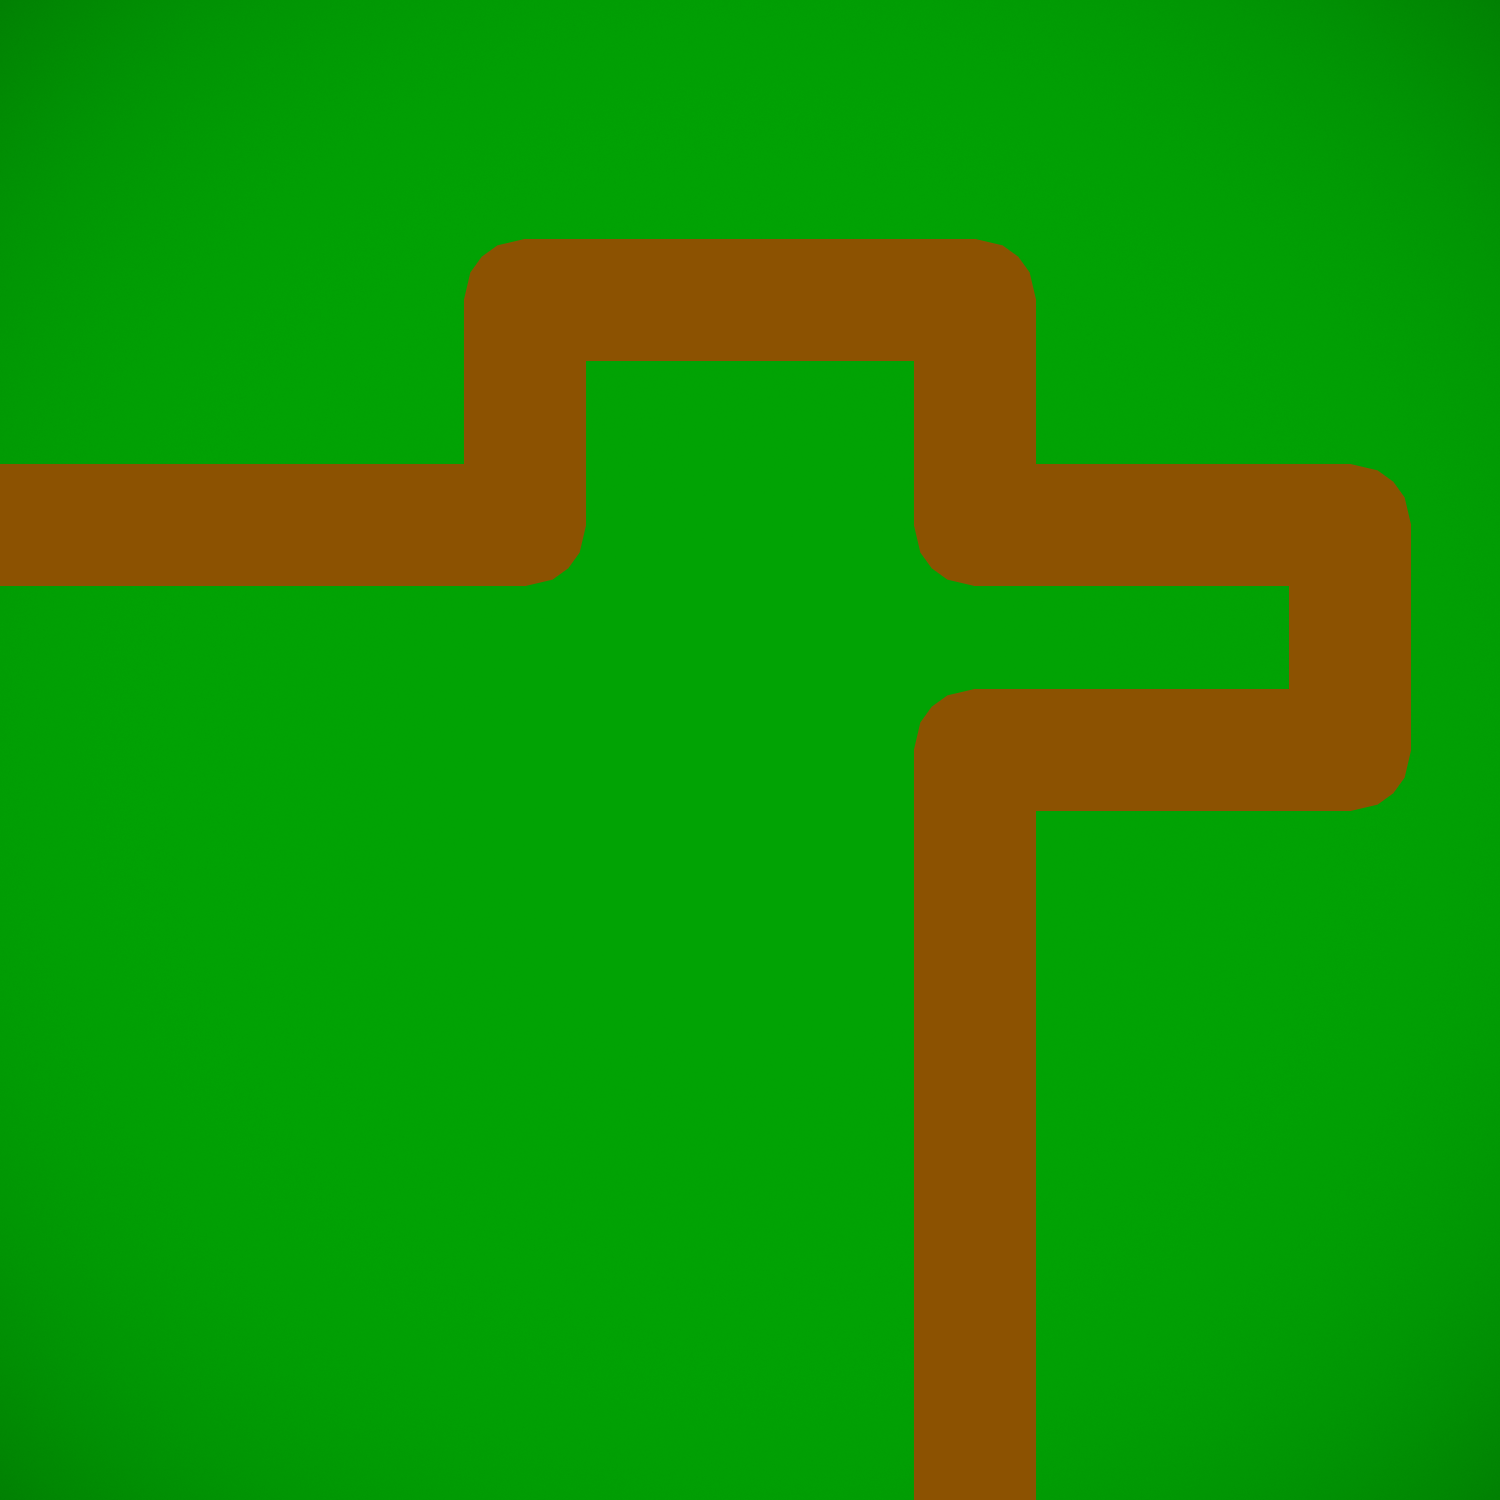
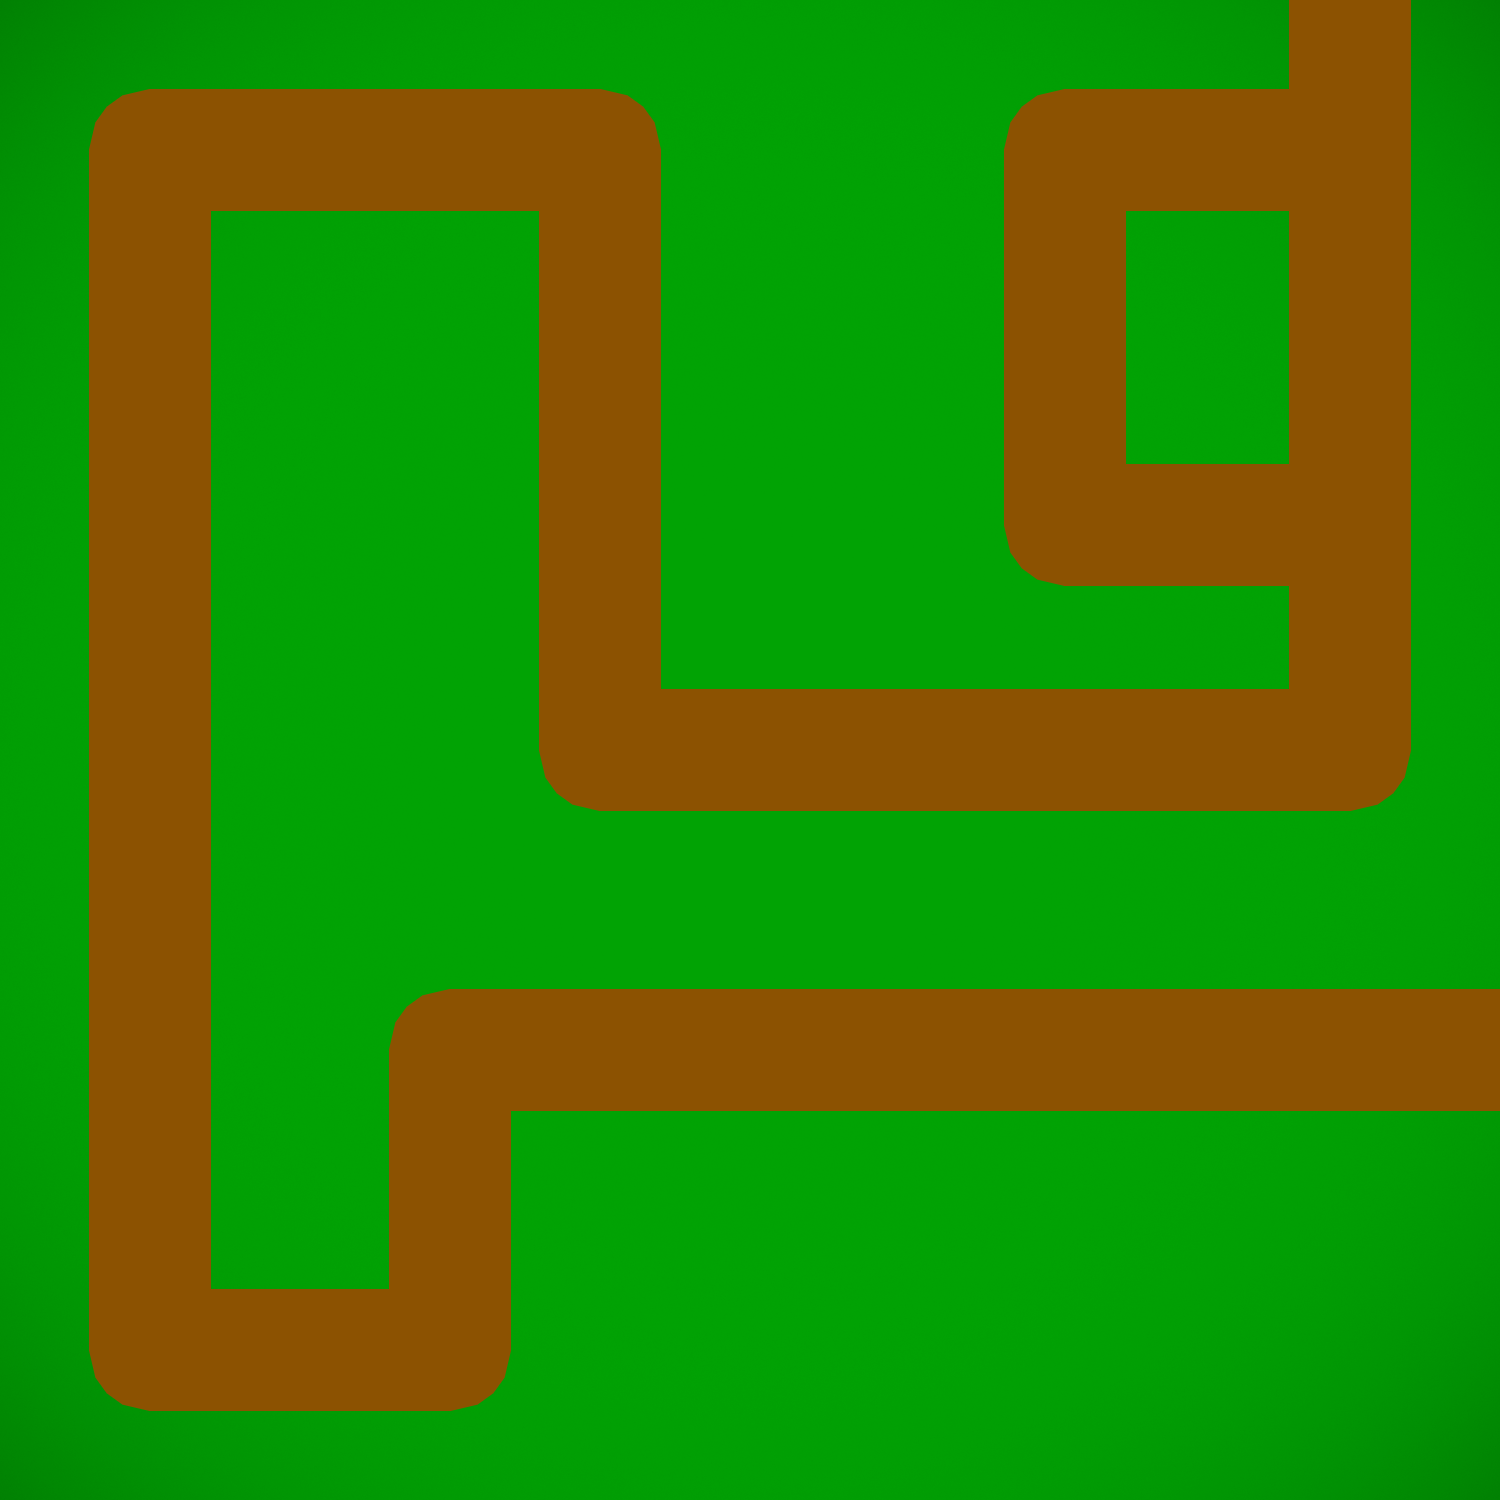
Increment waves 7 through 9 to make room for a new 7th wave

diff --git a/app/utils/create-wave-8.js b/app/utils/create-wave-8.js
@@ -12,15 +12,20 @@ function addBoardToWave(wave) {
   board.set('imageUrl', '/images/path-8.png');
 
   const pathObjects = [
-    PathCoords.create({ x: -5, y: 35 }),
-    PathCoords.create({ x: 35, y: 35 }),
-    PathCoords.create({ x: 35, y: 20 }),
-    PathCoords.create({ x: 65, y: 20 }),
-    PathCoords.create({ x: 65, y: 35 }),
+    PathCoords.create({ x: 90, y: -5 }),
     PathCoords.create({ x: 90, y: 35 }),
+    PathCoords.create({ x: 71, y: 35 }),
+    PathCoords.create({ x: 71, y: 10 }),
+    PathCoords.create({ x: 90, y: 10 }),
+    PathCoords.create({ x: 90, y: 10 }),
     PathCoords.create({ x: 90, y: 50 }),
-    PathCoords.create({ x: 65, y: 50 }),
-    PathCoords.create({ x: 65, y: 105 })
+    PathCoords.create({ x: 40, y: 50 }),
+    PathCoords.create({ x: 40, y: 10 }),
+    PathCoords.create({ x: 10, y: 10 }),
+    PathCoords.create({ x: 10, y: 90 }),
+    PathCoords.create({ x: 30, y: 90 }),
+    PathCoords.create({ x: 30, y: 70 }),
+    PathCoords.create({ x: 105, y: 70 })
   ];
 
   pathObjects.forEach((pathObject) => {
@@ -33,11 +38,11 @@ function addBoardToWave(wave) {
 function addMobsToWave(wave) {
   const mobs = [];
 
-  const mobQuantity = 5;
+  const mobQuantity = 10;
   for (var i = 0; i < mobQuantity; i++) {
     const newMob = Mob.create({
       id: generateIdForRecord(),
-      frequency: 1500,
+      frequency: 900,
       health: 300,
       maxHealth: 300,
       points: 20,
@@ -65,11 +70,13 @@ function addTowerGroupsToWave(wave) {
     });
   }
 
-  const towerGroup1 = getNewTowerGroup(3, 35);
+  const towerGroup1 = getNewTowerGroup(1, 20);
+  const towerGroup2 = getNewTowerGroup(5, 70);
 
-  addTowersToTowerGroup(towerGroup1, [{ type: 1 }, { type: 2 }, { type: 1 }]);
+  addTowersToTowerGroup(towerGroup1, [{ type: 2 }, { type: 1 }, { type: 1 }]);
+  addTowersToTowerGroup(towerGroup2, [{ type: 1 }, { type: 1 }, { type: 2 }]);
 
-  wave.set('towerGroups', Ember.A([towerGroup1]));
+  wave.set('towerGroups', Ember.A([towerGroup1, towerGroup2]));
 }
 
 function addTowersToTowerGroup(towerGroup, specsForTowers) {
@@ -107,16 +114,22 @@ function generateIdForRecord() {
 export default function createWave8() {
   const wave = Wave.create({
     instructions: {
-      main: `The super tower is in another bad position, but not one you can
-             address with \`flex-direction\` or any other container property
-             you've learned. Instead you'll need to apply a style to the item
-             itself.
+      main: `This time, each group contains a super tower. Super towers
+             deal two times more damage to enemies than normal towers do.
+             The only problem is, they aren't effectively arranged in
+             their groups!
 
-The \`order\` property defines the order in which an item appears in the flex
-container and accepts both positive and negative integer values. All flex items
-begin with a default order of 0.`,
-    tldr: `Use \`justify-content\`, \`align-items\`, and \`order\` to move your
-           towers into effective positions.`
+Enter \`flex-direction\`. The \`flex-direction\` property defines the
+directional layout of the items in the flex container. Flex items can lay out
+either in horizontal rows or vertical columns; accordingly, \`flex-direction\`
+accepts the following values:
+
+* \`row\`: lay out items from left to right
+* \`row-reverse\`: lay out items from right to left
+* \`column\`: lay out items from top to bottom
+* \`column-reverse\`: lay out items from bottom to top`,
+      tldr: `Use \`justify-content\`, \`align-items\`, and \`flex-direction\` to
+             move your towers into effective positions.`
     },
     minimumScore: 80
   });

diff --git a/app/utils/create-wave-10.js b/app/utils/create-wave-10.js
@@ -9,23 +9,17 @@ import Wave from 'tower-defense/objects/wave';
 
 function addBoardToWave(wave) {
   const board = Board.create();
-  board.set('imageUrl', '/images/path-7.png');
+  board.set('imageUrl', '/images/path-10.png');
 
   const pathObjects = [
-    PathCoords.create({ x: 90, y: -5 }),
-    PathCoords.create({ x: 90, y: 35 }),
-    PathCoords.create({ x: 71, y: 35 }),
-    PathCoords.create({ x: 71, y: 10 }),
-    PathCoords.create({ x: 90, y: 10 }),
-    PathCoords.create({ x: 90, y: 10 }),
-    PathCoords.create({ x: 90, y: 50 }),
-    PathCoords.create({ x: 40, y: 50 }),
-    PathCoords.create({ x: 40, y: 10 }),
-    PathCoords.create({ x: 10, y: 10 }),
-    PathCoords.create({ x: 10, y: 90 }),
-    PathCoords.create({ x: 30, y: 90 }),
-    PathCoords.create({ x: 30, y: 70 }),
-    PathCoords.create({ x: 105, y: 70 })
+    PathCoords.create({ x: -5, y: 75 }),
+    PathCoords.create({ x: 15, y: 75 }),
+    PathCoords.create({ x: 15, y: 25 }),
+    PathCoords.create({ x: 50, y: 25 }),
+    PathCoords.create({ x: 50, y: 75 }),
+    PathCoords.create({ x: 85, y: 75 }),
+    PathCoords.create({ x: 85, y: 25 }),
+    PathCoords.create({ x: 105, y: 25 })
   ];
 
   pathObjects.forEach((pathObject) => {
@@ -42,7 +36,7 @@ function addMobsToWave(wave) {
   for (var i = 0; i < mobQuantity; i++) {
     const newMob = Mob.create({
       id: generateIdForRecord(),
-      frequency: 900,
+      frequency: 2000,
       health: 300,
       maxHealth: 300,
       points: 20,
@@ -70,13 +64,13 @@ function addTowerGroupsToWave(wave) {
     });
   }
 
-  const towerGroup1 = getNewTowerGroup(1, 20);
-  const towerGroup2 = getNewTowerGroup(5, 70);
+  const towerGroup1 = getNewTowerGroup(7, 32);
 
-  addTowersToTowerGroup(towerGroup1, [{ type: 2 }, { type: 1 }, { type: 1 }]);
-  addTowersToTowerGroup(towerGroup2, [{ type: 1 }, { type: 1 }, { type: 2 }]);
+  addTowersToTowerGroup(towerGroup1, [
+    { type: 1 }, { type: 1 }, { type: 1 }, { type: 1 }
+  ]);
 
-  wave.set('towerGroups', Ember.A([towerGroup1, towerGroup2]));
+  wave.set('towerGroups', Ember.A([towerGroup1]));
 }
 
 function addTowersToTowerGroup(towerGroup, specsForTowers) {
@@ -111,26 +105,14 @@ function generateIdForRecord() {
          generate4DigitString() + generate4DigitString();
 }
 
-export default function createWave7() {
+export default function createWave10() {
   const wave = Wave.create({
     instructions: {
-      main: `This time, each group contains a super tower. Super towers
-             deal two times more damage to enemies than normal towers do.
-             The only problem is, they aren't effectively arranged in
-             their groups!
-
-Enter \`flex-direction\`. The \`flex-direction\` property defines the
-directional layout of the items in the flex container. Flex items can lay out
-either in horizontal rows or vertical columns; accordingly, \`flex-direction\`
-accepts the following values:
-
-* \`row\`: lay out items from left to right
-* \`row-reverse\`: lay out items from right to left
-* \`column\`: lay out items from top to bottom
-* \`column-reverse\`: lay out items from bottom to top`,
-      tldr: `Use \`justify-content\`, \`align-items\`, and \`flex-direction\` to
-             move your towers into effective positions.`
-    },
+      main: `To vertically position individual items in a container, use the
+             \`align-self\` property. \`align-self\` accepts the same values as
+             \`align-items\`.`,
+      tldr: `Use \`justify-content\`, \`align-items\`, and \`align-self\` to
+             move your towers into effective positions.`},
     minimumScore: 80
   });
 

diff --git a/app/utils/create-wave-9.js b/app/utils/create-wave-9.js
@@ -12,14 +12,15 @@ function addBoardToWave(wave) {
   board.set('imageUrl', '/images/path-9.png');
 
   const pathObjects = [
-    PathCoords.create({ x: -5, y: 75 }),
-    PathCoords.create({ x: 15, y: 75 }),
-    PathCoords.create({ x: 15, y: 25 }),
-    PathCoords.create({ x: 50, y: 25 }),
-    PathCoords.create({ x: 50, y: 75 }),
-    PathCoords.create({ x: 85, y: 75 }),
-    PathCoords.create({ x: 85, y: 25 }),
-    PathCoords.create({ x: 105, y: 25 })
+    PathCoords.create({ x: -5, y: 35 }),
+    PathCoords.create({ x: 35, y: 35 }),
+    PathCoords.create({ x: 35, y: 20 }),
+    PathCoords.create({ x: 65, y: 20 }),
+    PathCoords.create({ x: 65, y: 35 }),
+    PathCoords.create({ x: 90, y: 35 }),
+    PathCoords.create({ x: 90, y: 50 }),
+    PathCoords.create({ x: 65, y: 50 }),
+    PathCoords.create({ x: 65, y: 105 })
   ];
 
   pathObjects.forEach((pathObject) => {
@@ -32,11 +33,11 @@ function addBoardToWave(wave) {
 function addMobsToWave(wave) {
   const mobs = [];
 
-  const mobQuantity = 10;
+  const mobQuantity = 5;
   for (var i = 0; i < mobQuantity; i++) {
     const newMob = Mob.create({
       id: generateIdForRecord(),
-      frequency: 2000,
+      frequency: 1500,
       health: 300,
       maxHealth: 300,
       points: 20,
@@ -64,11 +65,9 @@ function addTowerGroupsToWave(wave) {
     });
   }
 
-  const towerGroup1 = getNewTowerGroup(7, 32);
+  const towerGroup1 = getNewTowerGroup(3, 35);
 
-  addTowersToTowerGroup(towerGroup1, [
-    { type: 1 }, { type: 1 }, { type: 1 }, { type: 1 }
-  ]);
+  addTowersToTowerGroup(towerGroup1, [{ type: 1 }, { type: 2 }, { type: 1 }]);
 
   wave.set('towerGroups', Ember.A([towerGroup1]));
 }
@@ -108,11 +107,17 @@ function generateIdForRecord() {
 export default function createWave9() {
   const wave = Wave.create({
     instructions: {
-      main: `To vertically position individual items in a container, use the
-             \`align-self\` property. \`align-self\` accepts the same values as
-             \`align-items\`.`,
-      tldr: `Use \`justify-content\`, \`align-items\`, and \`align-self\` to
-             move your towers into effective positions.`},
+      main: `The super tower is in another bad position, but not one you can
+             address with \`flex-direction\` or any other container property
+             you've learned. Instead you'll need to apply a style to the item
+             itself.
+
+The \`order\` property defines the order in which an item appears in the flex
+container and accepts both positive and negative integer values. All flex items
+begin with a default order of 0.`,
+    tldr: `Use \`justify-content\`, \`align-items\`, and \`order\` to move your
+           towers into effective positions.`
+    },
     minimumScore: 80
   });
 

diff --git a/app/utils/create-game.js b/app/utils/create-game.js
@@ -5,9 +5,10 @@ import createWave3 from 'tower-defense/utils/create-wave-3';
 import createWave4 from 'tower-defense/utils/create-wave-4';
 import createWave5 from 'tower-defense/utils/create-wave-5';
 import createWave6 from 'tower-defense/utils/create-wave-6';
-import createWave7 from 'tower-defense/utils/create-wave-7';
+// import createWave7 from 'tower-defense/utils/create-wave-7';
 import createWave8 from 'tower-defense/utils/create-wave-8';
 import createWave9 from 'tower-defense/utils/create-wave-9';
+import createWave10 from 'tower-defense/utils/create-wave-10';
 import Game from 'tower-defense/objects/game';
 
 function addWavesToGame(game) {
@@ -19,9 +20,10 @@ function addWavesToGame(game) {
   waves.addObject(createWave4());
   waves.addObject(createWave5());
   waves.addObject(createWave6());
-  waves.addObject(createWave7());
+  // waves.addObject(createWave7());
   waves.addObject(createWave8());
   waves.addObject(createWave9());
+  waves.addObject(createWave10());
 
   game.set('waves', waves);
 }
